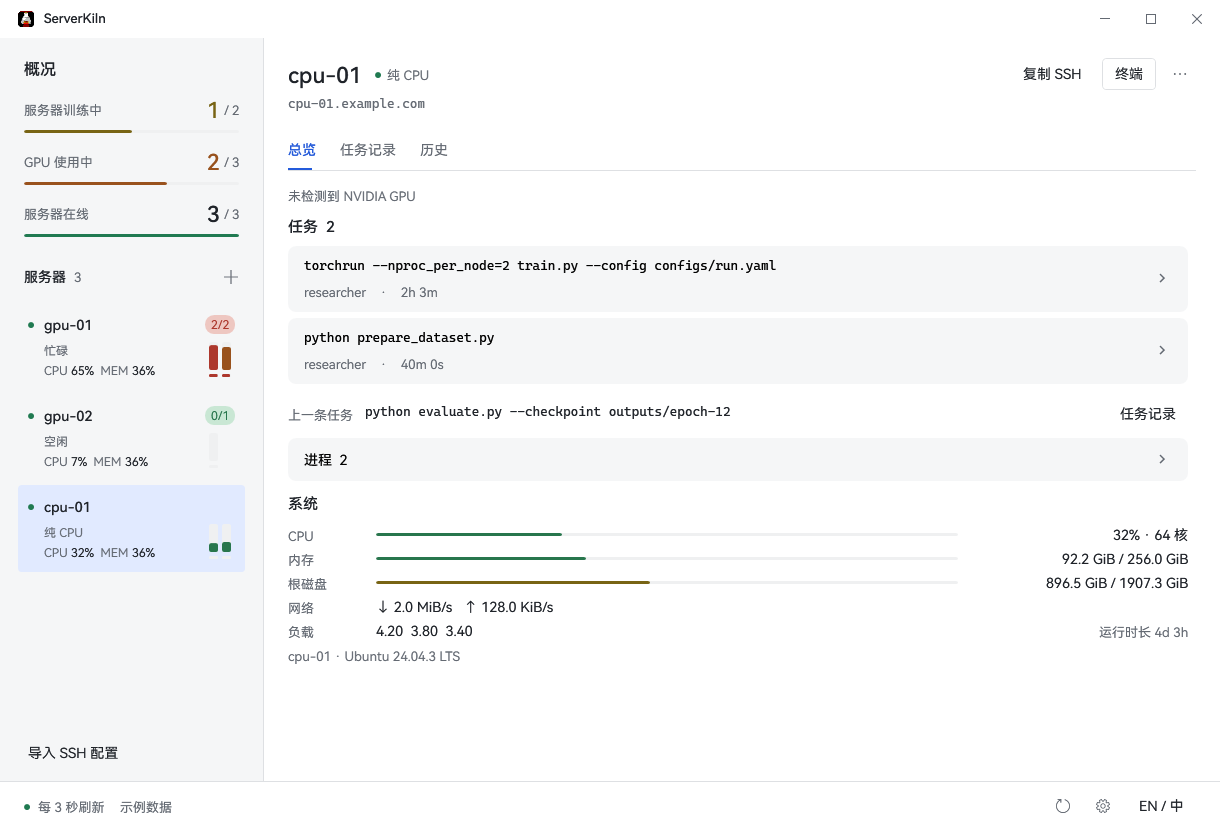
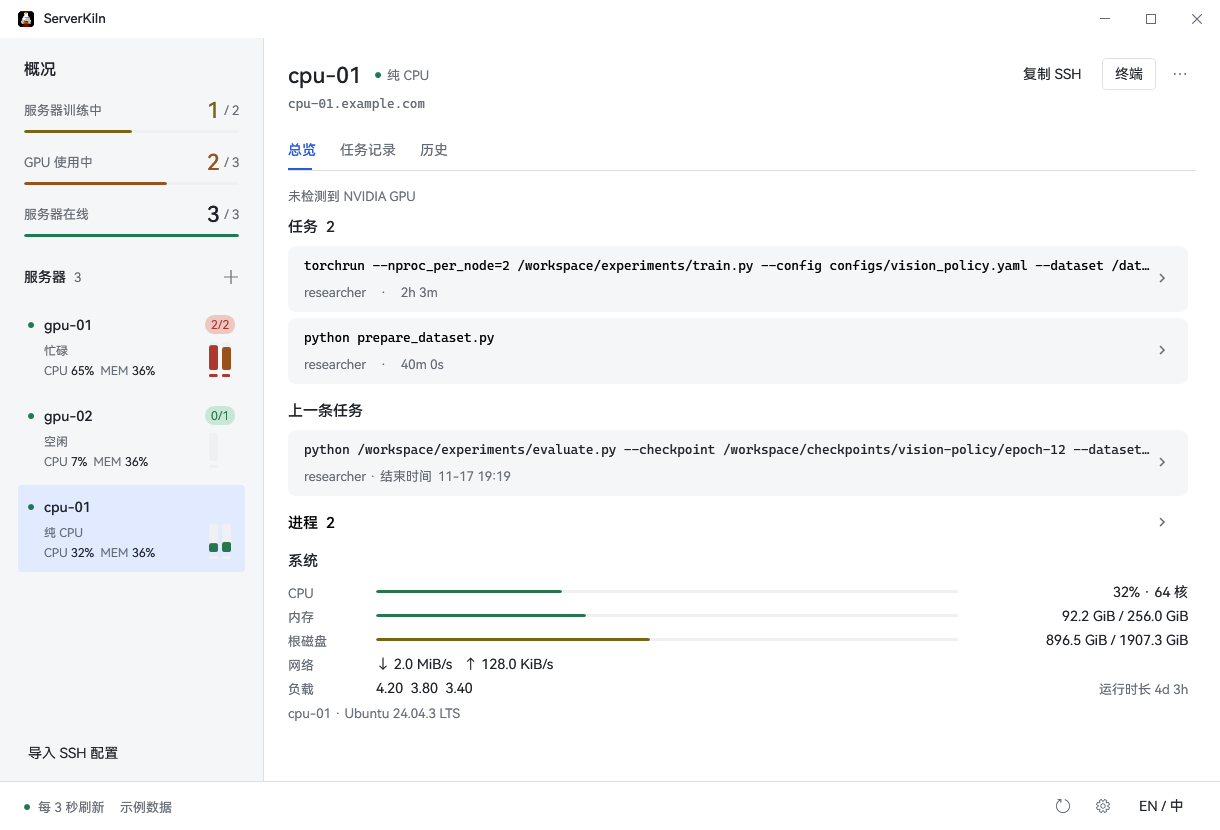
fix: align task history and process section rows

diff --git a/Sources/ServerKiln.Windows/MainWindow.xaml b/Sources/ServerKiln.Windows/MainWindow.xaml
@@ -9,8 +9,9 @@
  <Window.Resources>
   <Style x:Key="DisclosureToggle" TargetType="ToggleButton">
    <Setter Property="FocusVisualStyle" Value="{StaticResource FocusRing}" /><Setter Property="Cursor" Value="Hand" />
+   <Setter Property="Padding" Value="16,12" /><Setter Property="HorizontalContentAlignment" Value="Stretch" />
    <Setter Property="Template"><Setter.Value><ControlTemplate TargetType="ToggleButton">
-    <Border x:Name="HeaderChrome" Background="Transparent" Padding="16,12" CornerRadius="8">
+    <Border x:Name="HeaderChrome" Background="Transparent" Padding="{TemplateBinding Padding}" CornerRadius="8">
      <Grid><Grid.ColumnDefinitions><ColumnDefinition /><ColumnDefinition Width="20" /></Grid.ColumnDefinitions>
       <ContentPresenter VerticalAlignment="Center" />
       <Path x:Name="Chevron" Grid.Column="1" Data="M 0,0 L 4,4 L 0,8" Stroke="{DynamicResource MutedBrush}" StrokeThickness="1.5" HorizontalAlignment="Center" VerticalAlignment="Center" RenderTransformOrigin="0.5,0.5" />
@@ -37,6 +38,28 @@
   </Style>
   <Style x:Key="TaskDisclosure" TargetType="Expander" BasedOn="{StaticResource Disclosure}">
    <Setter Property="Background" Value="{DynamicResource SidebarBrush}" /><Setter Property="BorderThickness" Value="0" /><Setter Property="Padding" Value="16,0,16,12" /><Setter Property="Margin" Value="0,0,0,6" />
+  </Style>
+  <Style x:Key="SectionDisclosure" TargetType="Expander" BasedOn="{StaticResource Disclosure}">
+   <Setter Property="Margin" Value="0,0,0,16" />
+   <Setter Property="Template"><Setter.Value><ControlTemplate TargetType="Expander">
+    <StackPanel>
+     <ToggleButton Style="{StaticResource DisclosureToggle}" Padding="0,0,16,0" IsChecked="{Binding IsExpanded, RelativeSource={RelativeSource TemplatedParent}, Mode=TwoWay}" Content="{TemplateBinding Header}" />
+     <ContentPresenter x:Name="Body" Visibility="Collapsed" Margin="0,8,0,0" />
+    </StackPanel>
+    <ControlTemplate.Triggers><Trigger Property="IsExpanded" Value="True"><Setter TargetName="Body" Property="Visibility" Value="Visible" /></Trigger></ControlTemplate.Triggers>
+   </ControlTemplate></Setter.Value></Setter>
+  </Style>
+  <Style x:Key="HistoryRowButton" TargetType="Button" BasedOn="{StaticResource GhostButton}">
+   <Setter Property="Background" Value="{DynamicResource SidebarBrush}" /><Setter Property="Padding" Value="16,12" /><Setter Property="HorizontalContentAlignment" Value="Stretch" />
+   <Setter Property="Template"><Setter.Value><ControlTemplate TargetType="Button">
+    <Border x:Name="RowChrome" Background="{TemplateBinding Background}" Padding="{TemplateBinding Padding}" CornerRadius="8">
+     <Grid><Grid.ColumnDefinitions><ColumnDefinition /><ColumnDefinition Width="20" /></Grid.ColumnDefinitions>
+      <ContentPresenter VerticalAlignment="Center" />
+      <Path Grid.Column="1" Data="M 0,0 L 4,4 L 0,8" Stroke="{DynamicResource MutedBrush}" StrokeThickness="1.5" HorizontalAlignment="Center" VerticalAlignment="Center" />
+     </Grid>
+    </Border>
+    <ControlTemplate.Triggers><Trigger Property="IsPressed" Value="True"><Setter TargetName="RowChrome" Property="Opacity" Value="0.7" /></Trigger></ControlTemplate.Triggers>
+   </ControlTemplate></Setter.Value></Setter>
   </Style>
   <Style x:Key="ValueMeter" TargetType="ProgressBar" BasedOn="{StaticResource {x:Type ProgressBar}}">
    <Setter Property="Height" Value="28" /><Setter Property="Template"><Setter.Value><ControlTemplate TargetType="ProgressBar">
@@ -137,8 +160,15 @@
         </DataTemplate></ItemsControl.ItemTemplate></ItemsControl>
        </Grid>
        <TextBlock Text="{Binding TaskHeading}" Style="{StaticResource SectionTitle}" Margin="0,0,0,8" /><TextBlock Text="{Binding [NoRunningTasks], Source={x:Static local:Localizer.Current}}" Visibility="{Binding NoTasksVisibility}" Style="{StaticResource Caption}" Margin="0,0,0,8" /><ItemsControl ItemsSource="{Binding Tasks}" ItemTemplate="{StaticResource TaskTemplate}" />
-       <Grid Margin="0,8,0,8" Visibility="{Binding LastJobVisibility}"><Grid.ColumnDefinitions><ColumnDefinition Width="Auto" /><ColumnDefinition /><ColumnDefinition Width="Auto" /></Grid.ColumnDefinitions><TextBlock Text="{Binding [LastJob], Source={x:Static local:Localizer.Current}}" Style="{StaticResource Caption}" VerticalAlignment="Center" Margin="0,0,12,0" /><TextBlock Grid.Column="1" Text="{Binding LastJob.Command}" Style="{StaticResource CommandText}" VerticalAlignment="Center" Margin="0,0,12,0" ToolTip="{Binding LastJob.Detail}" /><Button Grid.Column="2" Content="{Binding [JobHistory], Source={x:Static local:Localizer.Current}}" Click="OpenJobs" Style="{StaticResource GhostButton}" /></Grid>
-       <Expander Style="{StaticResource TaskDisclosure}" Header="{Binding ProcessHeading}" Margin="0,0,0,12"><ItemsControl ItemsSource="{Binding Processes}" ItemTemplate="{StaticResource TaskTemplate}" /></Expander>
+       <StackPanel Margin="0,10,0,16" Visibility="{Binding LastJobVisibility}">
+        <TextBlock Text="{Binding [LastJob], Source={x:Static local:Localizer.Current}}" Style="{StaticResource SectionTitle}" Margin="0,0,0,8" />
+        <Button Style="{StaticResource HistoryRowButton}" Click="OpenJobs" ToolTip="{Binding LastJob.Detail}" AutomationProperties.Name="{Binding [JobHistory], Source={x:Static local:Localizer.Current}}">
+         <StackPanel><TextBlock Text="{Binding LastJob.Command}" Style="{StaticResource CommandText}" Margin="0,0,0,5" />
+          <StackPanel Orientation="Horizontal"><TextBlock Text="{Binding LastJob.User}" Style="{StaticResource Caption}" /><TextBlock Text=" · " Style="{StaticResource Caption}" /><TextBlock Text="{Binding [Ended], Source={x:Static local:Localizer.Current}}" Style="{StaticResource Caption}" /><TextBlock Text="{Binding LastJob.Ended}" Style="{StaticResource Caption}" Margin="6,0,0,0" /></StackPanel>
+         </StackPanel>
+        </Button>
+       </StackPanel>
+       <Expander Style="{StaticResource SectionDisclosure}"><Expander.Header><TextBlock Text="{Binding ProcessHeading}" Style="{StaticResource SectionTitle}" /></Expander.Header><ItemsControl ItemsSource="{Binding Processes}" ItemTemplate="{StaticResource TaskTemplate}" /></Expander>
        <TextBlock Text="{Binding [System], Source={x:Static local:Localizer.Current}}" Style="{StaticResource SectionTitle}" Margin="0,0,0,8" />
        <Grid><Grid.ColumnDefinitions><ColumnDefinition Width="88" /><ColumnDefinition /><ColumnDefinition Width="230" /></Grid.ColumnDefinitions><Grid.RowDefinitions><RowDefinition Height="24" /><RowDefinition Height="24" /><RowDefinition Height="24" /><RowDefinition Height="24" /><RowDefinition Height="24" /></Grid.RowDefinitions>
         <TextBlock Text="CPU" Style="{StaticResource Caption}" VerticalAlignment="Center" /><ProgressBar Grid.Column="1" Value="{Binding CpuValue, Mode=OneWay}" Foreground="{Binding CpuBrush}" VerticalAlignment="Center" /><TextBlock Grid.Column="2" Text="{Binding CpuDetail}" HorizontalAlignment="Right" VerticalAlignment="Center" FontSize="14" />

diff --git a/Sources/ServerKiln.Windows/DemoData.cs b/Sources/ServerKiln.Windows/DemoData.cs
@@ -2,6 +2,8 @@ namespace ServerKiln.Windows;
 
 internal static class DemoData
 {
+    private const string TrainingCommand = "torchrun --nproc_per_node=2 /workspace/experiments/train.py --config configs/vision_policy.yaml --dataset /datasets/robotics/benchmark/train.jsonl --checkpoint /workspace/checkpoints/baseline/epoch-12 --output /workspace/runs/vision-policy";
+    private const string FinishedCommand = "python /workspace/experiments/evaluate.py --checkpoint /workspace/checkpoints/vision-policy/epoch-12 --dataset /datasets/robotics/benchmark/validation.jsonl --batch-size 64 --output /workspace/runs/evaluation/report.json";
     public static AppPreferences Preferences => new()
     {
         Servers = [new ServerConfig { Id = Guid.Parse("10000000-0000-4000-8000-000000000001"), Name = "gpu-01", Target = "gpu-01.example.com" },
@@ -22,10 +24,11 @@ internal static class DemoData
             else output += "@@NOGPU\n";
             output += i == 1 ? "@@TOP\n520 researcher 2400 0.5 400000 jupyter-lab --no-browser\n@@CWD\n520 /workspace/notebooks\n@@END\n"
                 : "@@PS\n4242 researcher 7384 198.5 10485760 torchrun --nproc_per_node=2 train.py --config configs/run.yaml\n@@TOP\n4242 researcher 7384 198.5 10485760 torchrun --nproc_per_node=2 train.py --config configs/run.yaml\n520 researcher 2400 12.5 400000 python prepare_dataset.py\n@@CWD\n4242 /workspace/training\n520 /workspace/data\n@@END\n";
+            output = output.Replace("torchrun --nproc_per_node=2 train.py --config configs/run.yaml", TrainingCommand, StringComparison.Ordinal);
             var snapshot = SnapshotParser.Parse(output, now);
             snapshot = snapshot with { System = snapshot.System with { CpuUsage = i == 1 ? 0.07 : i == 2 ? 0.32 : 0.65, Load = [4.2, 3.8, 3.4] } };
-            var lastJob = new TaskRecord("python evaluate.py --checkpoint outputs/epoch-12", "researcher", "/workspace/training", snapshot.Gpus.Take(1).Select(g => g.Index).ToArray(), now.AddHours(-5), now.AddHours(-3));
-            var jobs = i == 1 ? new[] { lastJob } : new[] { new TaskRecord("torchrun --nproc_per_node=2 train.py --config configs/run.yaml", "researcher", "/workspace/training", snapshot.Gpus.Select(g => g.Index).ToArray(), now.AddHours(-2)), lastJob };
+            var lastJob = new TaskRecord(FinishedCommand, "researcher", "/workspace/training", snapshot.Gpus.Take(1).Select(g => g.Index).ToArray(), now.AddHours(-5), now.AddHours(-3));
+            var jobs = i == 1 ? new[] { lastJob } : new[] { new TaskRecord(TrainingCommand, "researcher", "/workspace/training", snapshot.Gpus.Select(g => g.Index).ToArray(), now.AddHours(-2)), lastJob };
             app.ViewModel.Apply(new ServerReading(server, snapshot, LastAttempt: now, LastSuccess: now,
                 Activity: i == 0 ? ServerActivity.Busy : i == 1 ? ServerActivity.Idle : ServerActivity.CpuOnly, Jobs: jobs));
             for (var n = 0; n < 288; n++)
